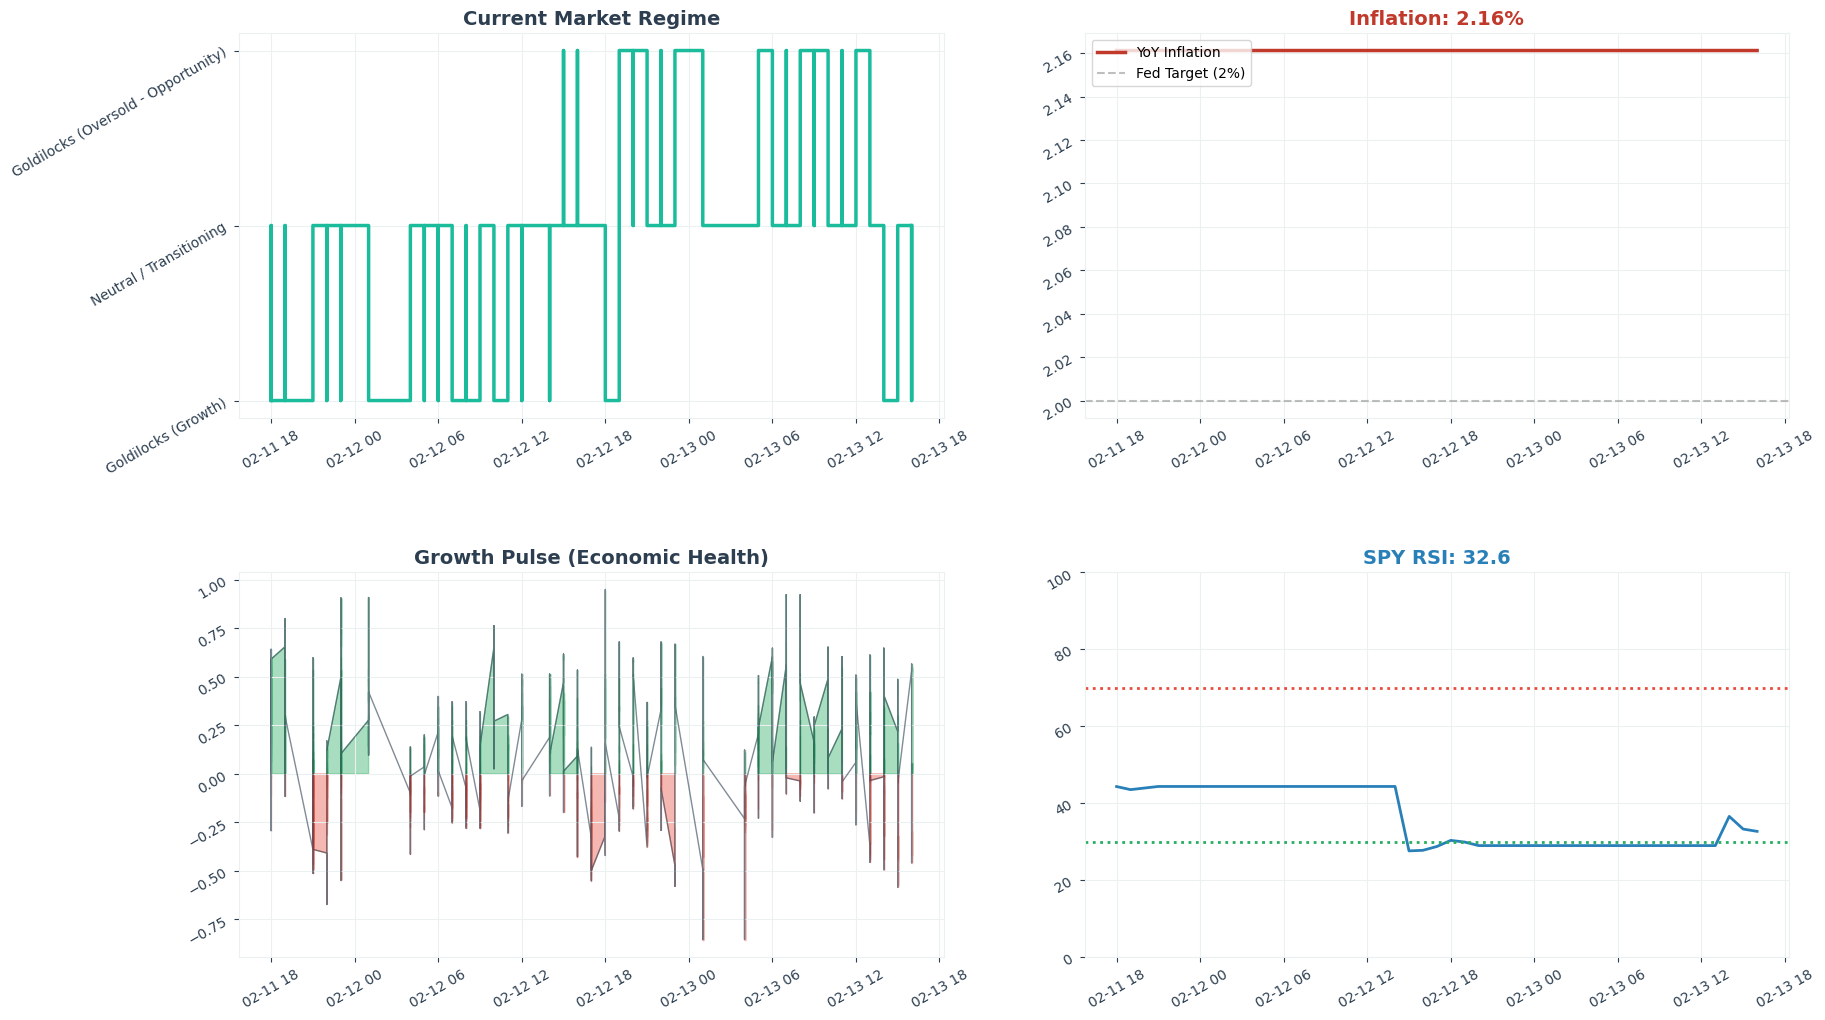
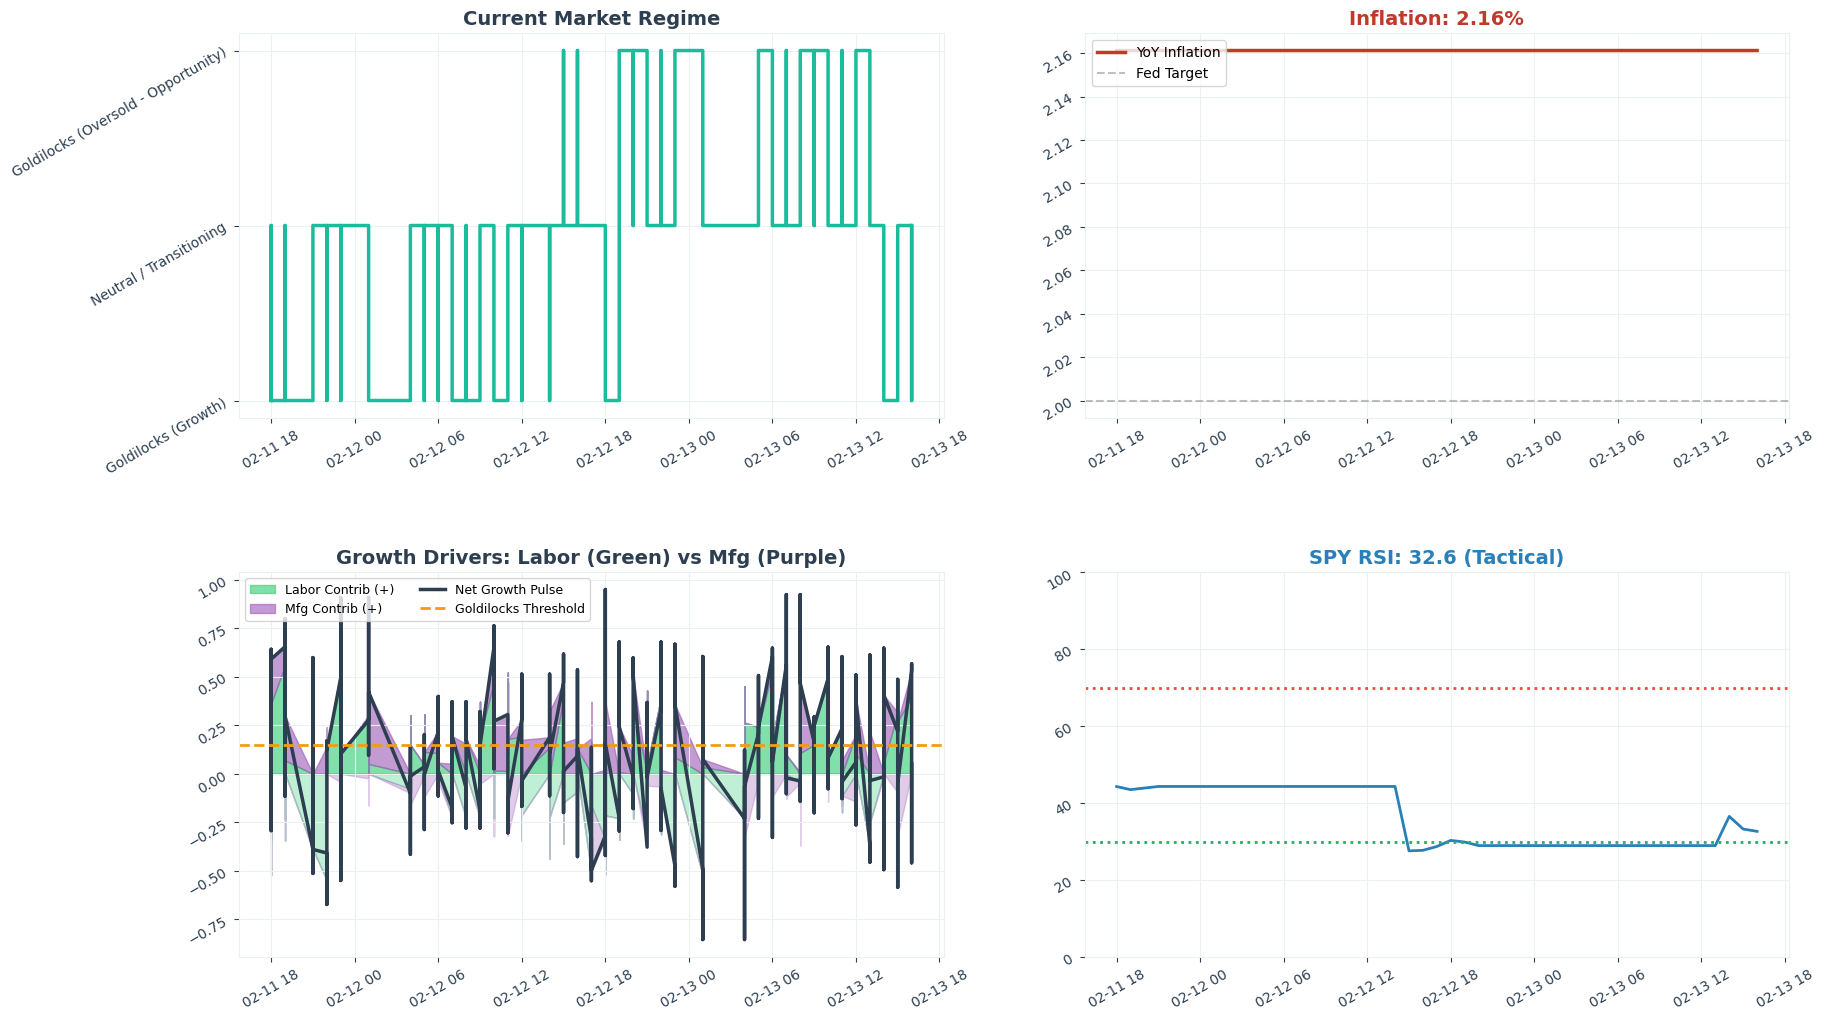
fix: pre-calc RSI to resolve NaN bug and upgrade dashboard to attribution-style visualization

Changed region(s): [[0.1249, 0.5167, 0.4997, 0.8814], [0.7184, 0.5167, 0.8433, 0.5775], [0.6559, 0.0304, 0.6871, 0.0912]]

diff --git a/src/visualization/dashboard.py b/src/visualization/dashboard.py
@@ -2,6 +2,7 @@ import pandas as pd
 import matplotlib.pyplot as plt
 import matplotlib.dates as mdates
 import os
+import numpy as np
 
 # Path Management
 SCRIPT_DIR = os.path.dirname(os.path.abspath(__file__))
@@ -12,15 +13,18 @@ OUTPUT_CHART = os.path.join(BASE_DIR, "output", "macro_sentinel_dashboard.png")
 # --- UNIFIED LIGHT PALETTE ---
 COLORS = {
     'background': '#ffffff',
-    'text': '#2c3e50',       # Dark Slate
-    'grid': '#ecf0f1',       # Very Light Grey
-    'strategy': '#16a085',   # Deep Teal
-    'benchmark': '#95a5a6',  # Grey
-    'inflation': '#c0392b',  # Deep Red
-    'rsi': '#2980b9',        # Strong Blue
-    'growth_pos': '#27ae60', # Emerald
-    'growth_neg': '#e74c3c', # Soft Red
-    'regime': '#1abc9c'      # Teal Green
+    'text': '#2c3e50',
+    'grid': '#ecf0f1',
+    'strategy': '#16a085',
+    'inflation': '#c0392b',
+    'rsi': '#2980b9',
+    'labor': '#2ecc71',      # Bright Green for Labor
+    'mfg': '#9b59b6',        # Purple for Manufacturing
+    'pulse': '#2c3e50',      # Dark Slate for the Net Pulse Line
+    'threshold': '#f39c12',  # Orange for the "Goldilocks Line"
+    'regime': '#1abc9c',
+    'growth_pos': '#27ae60',
+    'growth_neg': '#e74c3c'
 }
 
 def create_dashboard():
@@ -33,7 +37,7 @@ def create_dashboard():
     df['Timestamp'] = pd.to_datetime(df['Timestamp']).dt.floor('h').dt.tz_localize(None)
     df = df.sort_values('Timestamp')
 
-    # 2. Setup Plot (Light Mode)
+    # 2. Setup Plot
     plt.style.use('default')
     fig, ((ax1, ax2), (ax3, ax4)) = plt.subplots(2, 2, figsize=(20, 12))
     fig.patch.set_facecolor(COLORS['background'])
@@ -43,31 +47,52 @@ def create_dashboard():
     ax1.step(df['Timestamp'], df['Regime_V2'], where='post', color=COLORS['regime'], lw=2.5)
     ax1.set_title("Current Market Regime", fontsize=14, fontweight='bold', color=COLORS['text'])
     ax1.grid(True, color=COLORS['grid'])
-    ax1.set_facecolor(COLORS['background'])
 
     # --- CHART 2: INFLATION BRIDGE ---
     last_inf = df['Inflation_YoY'].iloc[-1]
     ax2.plot(df['Timestamp'], df['Inflation_YoY'], color=COLORS['inflation'], lw=2.5, label='YoY Inflation')
-    ax2.axhline(2.0, color='gray', ls='--', alpha=0.5, label='Fed Target (2%)')
+    ax2.axhline(2.0, color='gray', ls='--', alpha=0.5, label='Fed Target')
     ax2.set_title(f"Inflation: {last_inf:.2f}%", fontsize=14, fontweight='bold', color=COLORS['inflation'])
     ax2.legend(loc='upper left')
     ax2.grid(True, color=COLORS['grid'])
 
-    # --- CHART 3: GROWTH PULSE ---
-    growth_pulse = (df['Labor_Market'] * 0.6) + (df['Manufacturing'] * 0.4)
-    ax3.fill_between(df['Timestamp'], growth_pulse, 0, where=(growth_pulse >= 0), color=COLORS['growth_pos'], alpha=0.4)
-    ax3.fill_between(df['Timestamp'], growth_pulse, 0, where=(growth_pulse < 0), color=COLORS['growth_neg'], alpha=0.4)
-    ax3.plot(df['Timestamp'], growth_pulse, color=COLORS['text'], lw=1, alpha=0.6)
-    ax3.set_title("Growth Pulse (Economic Health)", fontsize=14, fontweight='bold', color=COLORS['text'])
+    # --- CHART 3: THE GROWTH ATTRIBUTION (New "Readable" Logic) ---
+    # We split the pulse into its "Weighted Components"
+    w_labor = df['Labor_Market'] * 0.6
+    w_mfg = df['Manufacturing'] * 0.4
+    net_pulse = w_labor + w_mfg
+
+    # Separate Positive and Negative contributions for Stacking
+    # This effectively creates a "Stacked Bar" look using area fills
+    pos_labor = w_labor.clip(lower=0)
+    neg_labor = w_labor.clip(upper=0)
+    pos_mfg = w_mfg.clip(lower=0)
+    neg_mfg = w_mfg.clip(upper=0)
+
+    # Stack the Positive Areas (Green base, Purple on top)
+    ax3.fill_between(df['Timestamp'], 0, pos_labor, color=COLORS['labor'], alpha=0.6, label='Labor Contrib (+)')
+    ax3.fill_between(df['Timestamp'], pos_labor, pos_labor + pos_mfg, color=COLORS['mfg'], alpha=0.6, label='Mfg Contrib (+)')
+
+    # Stack the Negative Areas (Green base down, Purple below that)
+    ax3.fill_between(df['Timestamp'], 0, neg_labor, color=COLORS['labor'], alpha=0.3) # Fainter green for negative
+    ax3.fill_between(df['Timestamp'], neg_labor, neg_labor + neg_mfg, color=COLORS['mfg'], alpha=0.3) # Fainter purple for negative
+
+    # Plot the NET PULSE Line on top (The Result)
+    ax3.plot(df['Timestamp'], net_pulse, color=COLORS['pulse'], lw=2.5, label='Net Growth Pulse')
+
+    # Plot the Threshold
+    ax3.axhline(0.15, color=COLORS['threshold'], ls='--', lw=2, label='Goldilocks Threshold')
+
+    ax3.set_title("Growth Drivers: Labor (Green) vs Mfg (Purple)", fontsize=14, fontweight='bold', color=COLORS['text'])
+    ax3.legend(loc='upper left', fontsize=9, ncol=2)
     ax3.grid(True, color=COLORS['grid'])
 
     # --- CHART 4: RSI SPEEDOMETER ---
-    
     last_rsi = df['RSI'].iloc[-1]
     ax4.plot(df['Timestamp'], df['RSI'], color=COLORS['rsi'], lw=2)
     ax4.axhline(70, color=COLORS['growth_neg'], ls=':', lw=2)
     ax4.axhline(30, color=COLORS['growth_pos'], ls=':', lw=2)
-    ax4.set_title(f"SPY RSI: {last_rsi:.1f}", fontsize=14, fontweight='bold', color=COLORS['rsi'])
+    ax4.set_title(f"SPY RSI: {last_rsi:.1f} (Tactical)", fontsize=14, fontweight='bold', color=COLORS['rsi'])
     ax4.set_ylim(0, 100)
     ax4.grid(True, color=COLORS['grid'])
 
@@ -79,7 +104,7 @@ def create_dashboard():
             spine.set_edgecolor(COLORS['grid'])
 
     plt.savefig(OUTPUT_CHART, dpi=100, bbox_inches='tight')
-    print(f"[SUCCESS] Dashboard (Light Mode) saved to {OUTPUT_CHART}")
+    print(f"[SUCCESS] Dashboard updated. Chart 3 now uses 'Attribution Stacking' for readability.")
 
 if __name__ == "__main__":
     create_dashboard()
